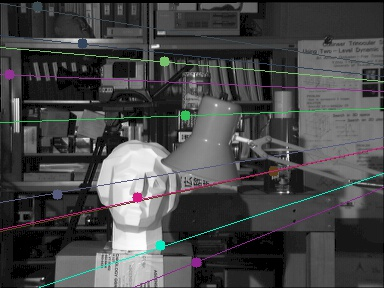
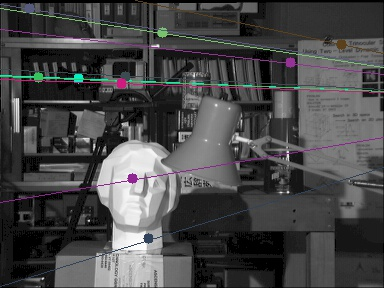
ran code  with minor changes

diff --git a/Project 2/Task 3/kMeansFull.py b/Project 2/Task 3/kMeansFull.py
@@ -23,7 +23,7 @@ print("cluster Centers \n", clusterCenters)
 image = image.reshape((image.shape[0] * image.shape[1], 3))
 print("image Shape ", image.shape)
 
-for i in range(5):
+for i in range(3):
 
     # **************   Calculating euclidean distances  *************************
     colorDistance = calculateColorDistance(noOfClusters, image, clusterCenters)
@@ -41,11 +41,10 @@ for i in range(5):
 #
 for centers in range(noOfClusters):
     for imgIndex in range(image.shape[0]):
-        if ptsClassified[imgIndex][centers] == 1:
-            image[imgIndex] = 
+        if ptsClassified[centers][imgIndex] == 1:
+            image[imgIndex] = clusterCenters[centers]
 
-
-image = image.reshape((imgHeight,imgWidth,noOfClusters))
+image = image.reshape((imgHeight,imgWidth,3))
 colorDistance = colorDistance.reshape((imgHeight,imgWidth,noOfClusters))
 image = image * 255
 image = image.astype(np.uint8)
@@ -54,5 +53,5 @@ colorDistance = colorDistance * 255
 colorDistance = colorDistance.astype(np.uint8)
 
 print(colorDistance)
-cv2.imwrite("task3_baboon_3.jpg", colorDistance)
+cv2.imwrite("task3_baboon_3.jpg", image)
 

diff --git a/Project 2/Task 2/epipolarGeometry.py b/Project 2/Task 2/epipolarGeometry.py
@@ -31,6 +31,7 @@ destinationPoints = np.float32([keyPointImage2[m.trainIdx].pt for m in goodMatch
 # Generate Fundamental matrix
 fundamentalMatrix, inOut = cv2.findFundamentalMat(sourcePoints,destinationPoints,cv2.RANSAC)
 
+print(fundamentalMatrix)
 # Selecting only inliers
 sourcePoints = sourcePoints[inOut.ravel()==1]
 destinationPoints = destinationPoints[inOut.ravel()==1]
@@ -41,11 +42,12 @@ print("Destination: \n",destinationPoints.shape)
 # Selecting 10 random points
 sourcePointsSmall = []
 destinationPointsSmall = []
-
+print(len(sourcePoints))
 for i in range(10):
     index = random.randint(0,min(len(sourcePoints)-1,len(destinationPoints)-1))
     sourcePointsSmall.append(sourcePoints[index])
     destinationPointsSmall.append(destinationPoints[index])
+
 
 sourcePointsSmall = np.asarray(sourcePointsSmall)
 destinationPointsSmall = np.asarray(destinationPointsSmall)

diff --git a/Project 2/Task 3/functions.py b/Project 2/Task 3/functions.py
@@ -82,7 +82,7 @@ def plotClusters(X,clusterCenters,XClassified,fineName):
 def calculateColorDistance(noOfClusters, image, clusterCenters):
     colorDistance = np.zeros((noOfClusters, image.shape[0]))
     print("in function")
-    for imgX in range(image.shape[0]- 262140):
+    for imgX in range(image.shape[0]):
         x = image[imgX]
         for centers in range(noOfClusters):
             y = clusterCenters[centers]
